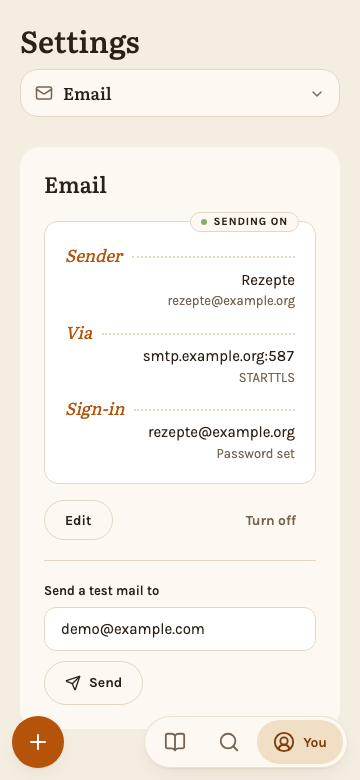
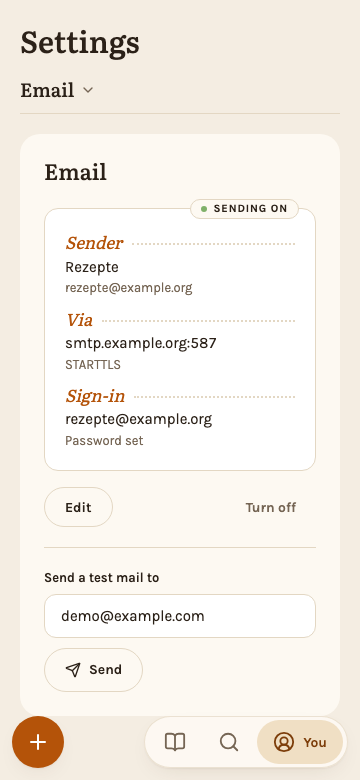
refactor(settings): share the letterhead and stack it left-aligned

diff --git a/frontend/src/lib/components/settings/MailCard.svelte b/frontend/src/lib/components/settings/MailCard.svelte
@@ -7,6 +7,7 @@
 	import ConfirmDialog from '$lib/components/ui/ConfirmDialog.svelte';
 	import Skeleton from '$lib/components/ui/Skeleton.svelte';
 	import { m } from '$lib/paraglide/messages';
+	import Letterhead, { type LetterheadLine } from './Letterhead.svelte';
 	import MailSettingsDialog from './MailSettingsDialog.svelte';
 	import TestMailRow, { type TestMailResult } from './TestMailRow.svelte';
 
@@ -24,11 +25,8 @@
 		}
 	});
 
-	// A letterhead: the same three lines whether set up or not, so the card
-	// keeps its shape when mail is turned on and only the lines fill in. Each
-	// value is a main part and a smaller line under it.
 	const blank = $derived(!current || current.source === 'none');
-	const lines = $derived<{ key: string; main: string; sub: string }[]>(
+	const lines = $derived<LetterheadLine[]>(
 		current && !blank
 			? [
 					{
@@ -61,22 +59,6 @@
 				}))
 	);
 
-	// One layout for every row: if any value does not fit beside its key and
-	// leader, all of them move under their leaders. Measured in the one-line
-	// layout each time, so widening the card brings it back.
-	function fitRows(dl: HTMLElement) {
-		void lines; // measure again when the values change
-		const measure = () => {
-			dl.removeAttribute('data-stacked');
-			const overflows = [...dl.children].some((row) => row.scrollWidth > row.clientWidth);
-			dl.toggleAttribute('data-stacked', overflows);
-		};
-		measure();
-		const observer = new ResizeObserver(measure);
-		observer.observe(dl);
-		return () => observer.disconnect();
-	}
-
 	async function turnOff() {
 		try {
 			await clearMailSettings();
@@ -108,45 +90,19 @@
 				{m.settings_mail_public_url_missing()}
 			</p>
 		{:else}
-			<div class="relative mt-6 rounded-lg border border-border bg-surface-elevated px-5 py-4">
-				<span
-					class="absolute -top-2.5 right-4 inline-flex items-center gap-1.5 rounded-pill border border-border bg-surface px-2.5 py-0.5 text-label font-bold text-text-muted uppercase"
-				>
-					{#if current.source === 'settings'}
-						<span aria-hidden="true" class="size-1.5 rounded-full bg-success"></span>
-						<span class="text-text">{m.settings_mail_stamp_on()}</span>
-					{:else}
-						{current.source === 'env' ? m.settings_mail_stamp_env() : m.settings_mail_stamp_off()}
-					{/if}
-				</span>
-				<dl {@attach fitRows} class="group">
-					{#each lines as { key, main, sub } (key)}
-						<div class="flex items-baseline gap-x-2.5 py-1 group-data-stacked:flex-wrap">
-							<dt
-								class="shrink-0 font-display text-body-lg whitespace-nowrap italic {blank
-									? 'text-text-muted'
-									: 'text-primary'}"
-							>
-								{key}
-							</dt>
-							<span
-								aria-hidden="true"
-								class="min-w-6 flex-1 -translate-y-1 border-b-2 border-dotted border-border"
-							></span>
-							<dd
-								class="shrink-0 text-right text-body whitespace-nowrap group-data-stacked:basis-full group-data-stacked:wrap-anywhere group-data-stacked:whitespace-normal {blank
-									? 'text-text-muted'
-									: ''}"
-							>
-								<span class="block">{main}</span>
-								{#if sub}
-									<span class="block text-caption text-text-muted">{sub}</span>
-								{/if}
-							</dd>
-						</div>
-					{/each}
-				</dl>
-			</div>
+			<Letterhead
+				{lines}
+				{blank}
+				stamp={{
+					label:
+						current.source === 'settings'
+							? m.settings_mail_stamp_on()
+							: current.source === 'env'
+								? m.settings_mail_stamp_env()
+								: m.settings_mail_stamp_off(),
+					on: current.source === 'settings'
+				}}
+			/>
 			{#if current.source === 'env'}
 				<p class="mt-3 text-caption text-text-muted">{m.settings_mail_env_hint()}</p>
 			{:else if current.source === 'none'}

diff --git a/frontend/src/lib/components/settings/Letterhead.svelte b/frontend/src/lib/components/settings/Letterhead.svelte
@@ -1,0 +1,91 @@
+<script lang="ts" module>
+	export type LetterheadLine = { key: string; main: string; sub?: string; url?: boolean };
+
+	/**
+	 * A URL cut after every path slash, so a `<wbr>` between the pieces lets
+	 * it break there and nowhere else; the scheme stays with the host.
+	 */
+	export function urlSegments(url: string): string[] {
+		const scheme = /^[a-z][a-z\d+.-]*:\/\//i.exec(url)?.[0] ?? '';
+		const segments = url.slice(scheme.length).split(/(?<=\/)/);
+		segments[0] = scheme + segments[0];
+		return segments;
+	}
+</script>
+
+<script lang="ts">
+	let {
+		stamp,
+		lines,
+		blank
+	}: { stamp: { label: string; on: boolean }; lines: LetterheadLine[]; blank: boolean } = $props();
+
+	// One layout for every row: if any value does not fit beside its key and
+	// leader, all of them move under their leaders. Measured in the one-line
+	// layout each time, so widening the card brings it back.
+	function fitRows(dl: HTMLElement) {
+		void lines; // measure again when the values change
+		const measure = () => {
+			dl.removeAttribute('data-stacked');
+			const overflows = [...dl.children].some((row) => row.scrollWidth > row.clientWidth);
+			dl.toggleAttribute('data-stacked', overflows);
+		};
+		measure();
+		const observer = new ResizeObserver(measure);
+		observer.observe(dl);
+		return () => observer.disconnect();
+	}
+</script>
+
+{#snippet text(value: string, url: boolean | undefined)}
+	{#if url}
+		{#each urlSegments(value) as segment, i (i)}{segment}<wbr />{/each}
+	{:else}
+		{value}
+	{/if}
+{/snippet}
+
+<!-- A letterhead: the same lines whether set up or not, so the card keeps
+     its shape when it is turned on and only the lines fill in. Each value
+     is a main part and a smaller line under it. Stacked, the values sit
+     left under their key; a value breaks inside a word only when nothing
+     else lets it fit (an address on a 320px phone). -->
+<div class="relative mt-6 rounded-lg border border-border bg-surface-elevated px-5 py-4">
+	<span
+		class="absolute -top-2.5 right-4 inline-flex items-center gap-1.5 rounded-pill border border-border bg-surface px-2.5 py-0.5 text-label font-bold text-text-muted uppercase"
+	>
+		{#if stamp.on}
+			<span aria-hidden="true" class="size-1.5 rounded-full bg-success"></span>
+			<span class="text-text">{stamp.label}</span>
+		{:else}
+			{stamp.label}
+		{/if}
+	</span>
+	<dl {@attach fitRows} class="group">
+		{#each lines as { key, main, sub, url } (key)}
+			<div class="flex items-baseline gap-x-2.5 py-1 group-data-stacked:flex-wrap">
+				<dt
+					class="shrink-0 font-display text-body-lg whitespace-nowrap italic {blank
+						? 'text-text-muted'
+						: 'text-primary'}"
+				>
+					{key}
+				</dt>
+				<span
+					aria-hidden="true"
+					class="min-w-6 flex-1 -translate-y-1 border-b-2 border-dotted border-border"
+				></span>
+				<dd
+					class="shrink-0 text-right text-body whitespace-nowrap group-data-stacked:basis-full group-data-stacked:text-left group-data-stacked:wrap-anywhere group-data-stacked:whitespace-normal {blank
+						? 'text-text-muted'
+						: ''}"
+				>
+					<span class="block">{@render text(main, url)}</span>
+					{#if sub}
+						<span class="block text-caption text-text-muted">{@render text(sub, url)}</span>
+					{/if}
+				</dd>
+			</div>
+		{/each}
+	</dl>
+</div>

diff --git a/frontend/e2e/settings.test.ts b/frontend/e2e/settings.test.ts
@@ -736,3 +736,38 @@ test('the account menu switches the theme and stays open', async ({ page, isMobi
 	await theme.getByRole('menuitemradio', { name: 'System' }).click();
 	await expect(page.locator('html')).not.toHaveAttribute('data-theme');
 });
+
+test('mail card stacks left-aligned on a 320px phone', async ({ page }) => {
+	// A configured card with a sender too long for one line, answered here
+	// rather than saved: mail is instance-wide, and mail.test.ts owns it.
+	await page.route('**/api/v1/settings/mail', (route) =>
+		route.request().method() === 'GET'
+			? route.fulfill({
+					json: {
+						source: 'settings',
+						host: 'mail.example.org',
+						port: 587,
+						security: 'starttls',
+						username: 'rezepte',
+						passwordSet: true,
+						from: 'notifications.for.the.family.kitchen@rezepte.example.org',
+						fromName: '',
+						publicUrlMissing: false
+					}
+				})
+			: route.continue()
+	);
+	await page.setViewportSize({ width: 320, height: 700 });
+	await login(page);
+	await expect(page).toHaveURL('/');
+	await page.goto('/settings/mail');
+	const values = page.getByRole('region', { name: 'Email' }).locator('dd');
+	await expect(values).toHaveCount(3);
+	const measured = await values.evaluateAll((dds) =>
+		dds.map((dd) => ({
+			align: getComputedStyle(dd).textAlign,
+			fits: dd.scrollWidth <= dd.clientWidth
+		}))
+	);
+	expect(measured).toEqual(measured.map(() => ({ align: 'left', fits: true })));
+});
